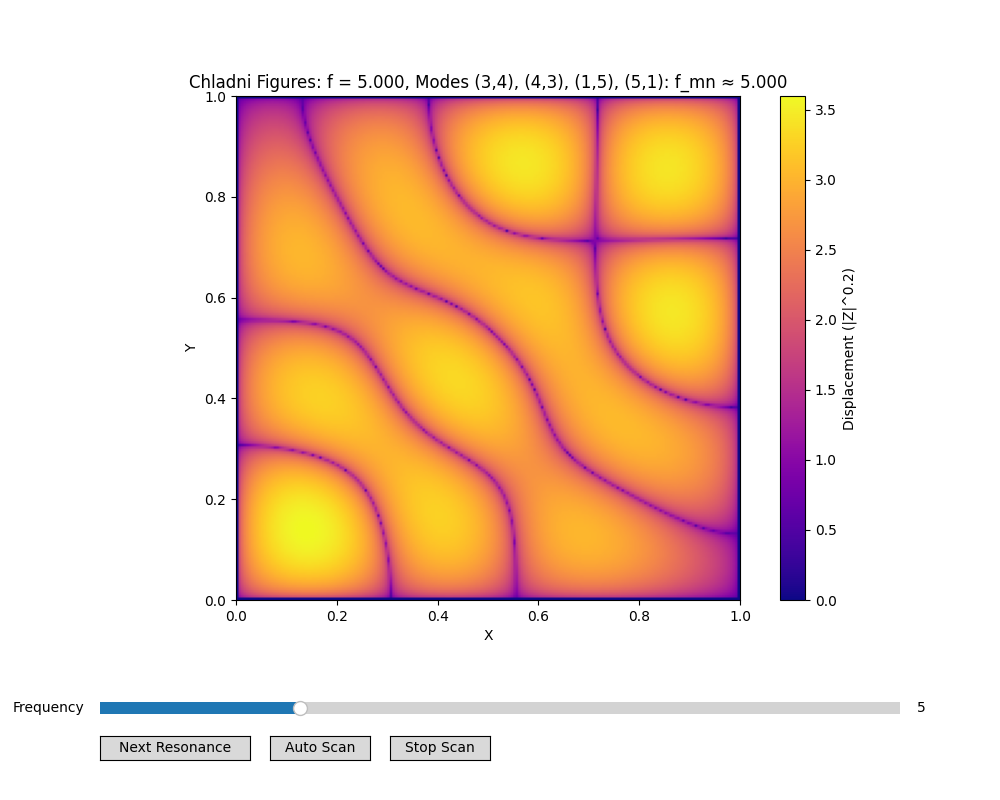
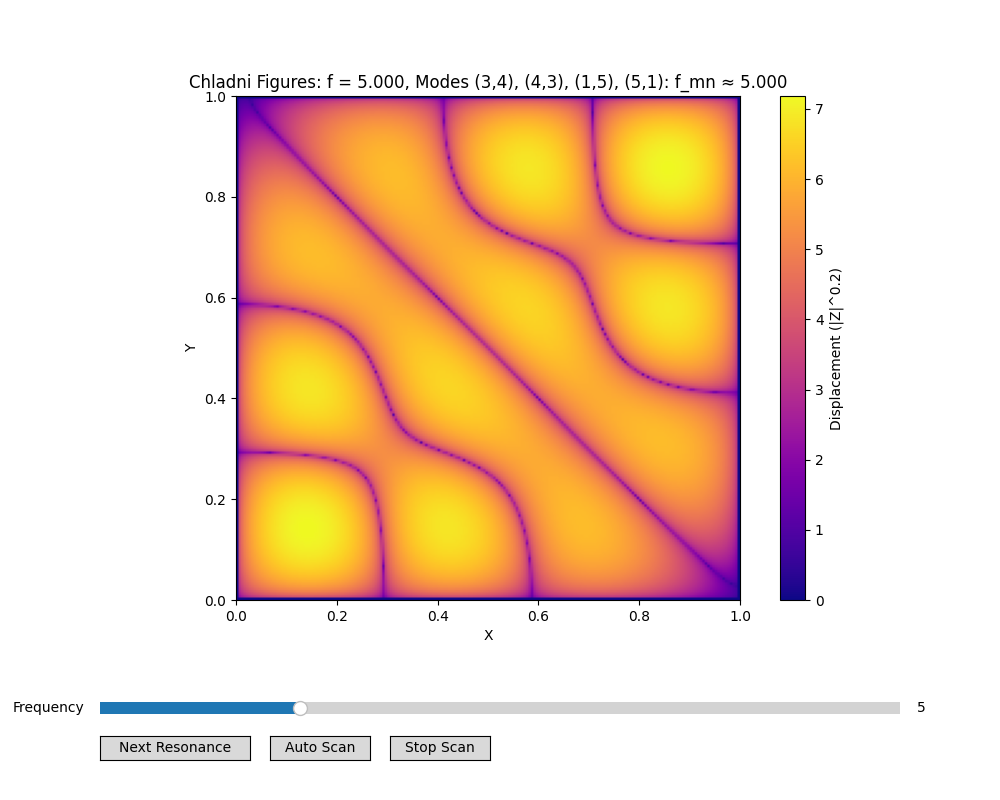
modified:   Chladni_1.png modified:   Chladni_2.png modified:   Chladni_3.png modified:   Chladni_Figures.py

diff --git a/Chladni_Figures.py b/Chladni_Figures.py
@@ -220,7 +220,7 @@ def main():
     """Main function to create and run the application."""
     # 1. Initialize the simulator with desired parameters
     simulator = ChladniSimulator(
-        resolution=200, max_mode=15, gamma=0.06, k=1.0)
+        resolution=200, max_mode=15, gamma=0.01, k=1.0)
 
     # 2. Initialize the UI, passing the simulator
     ui = ChladniUI(simulator)
